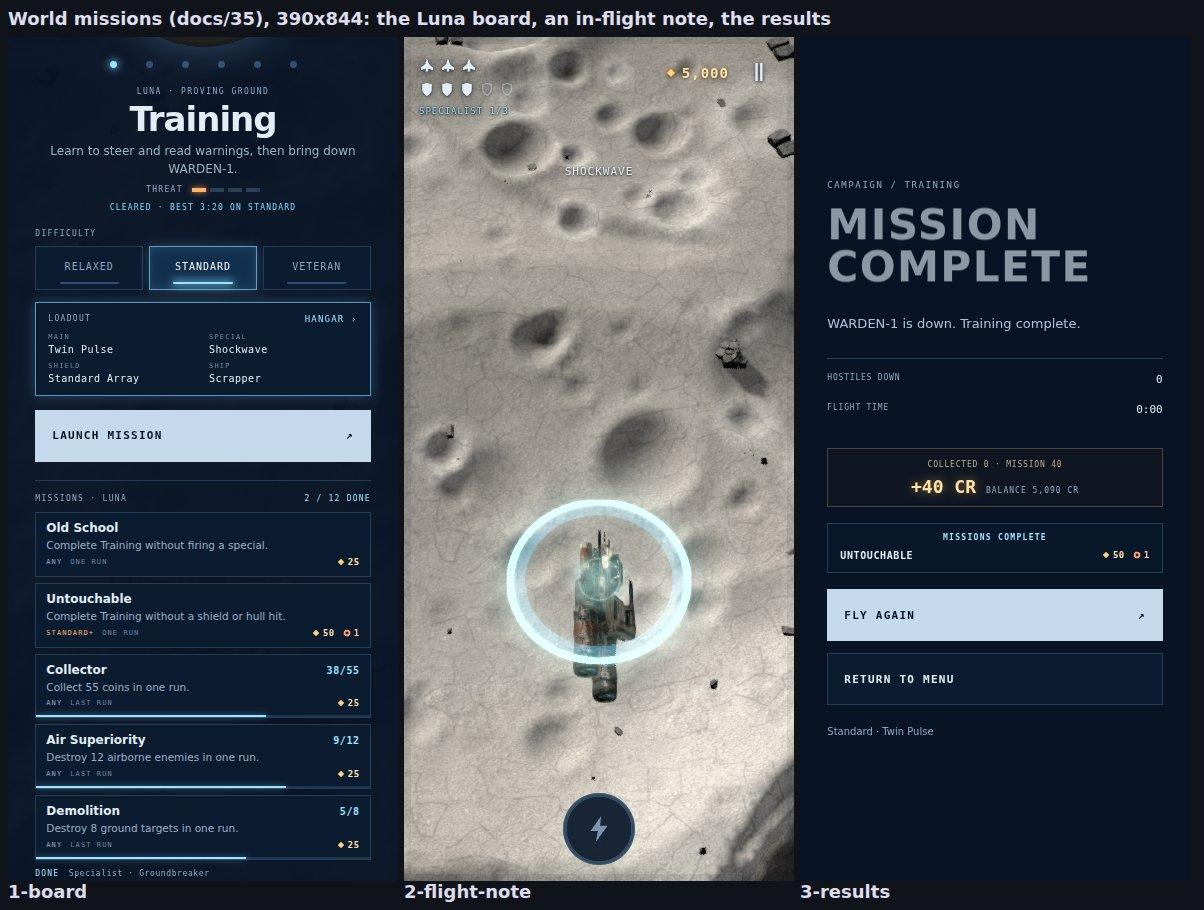
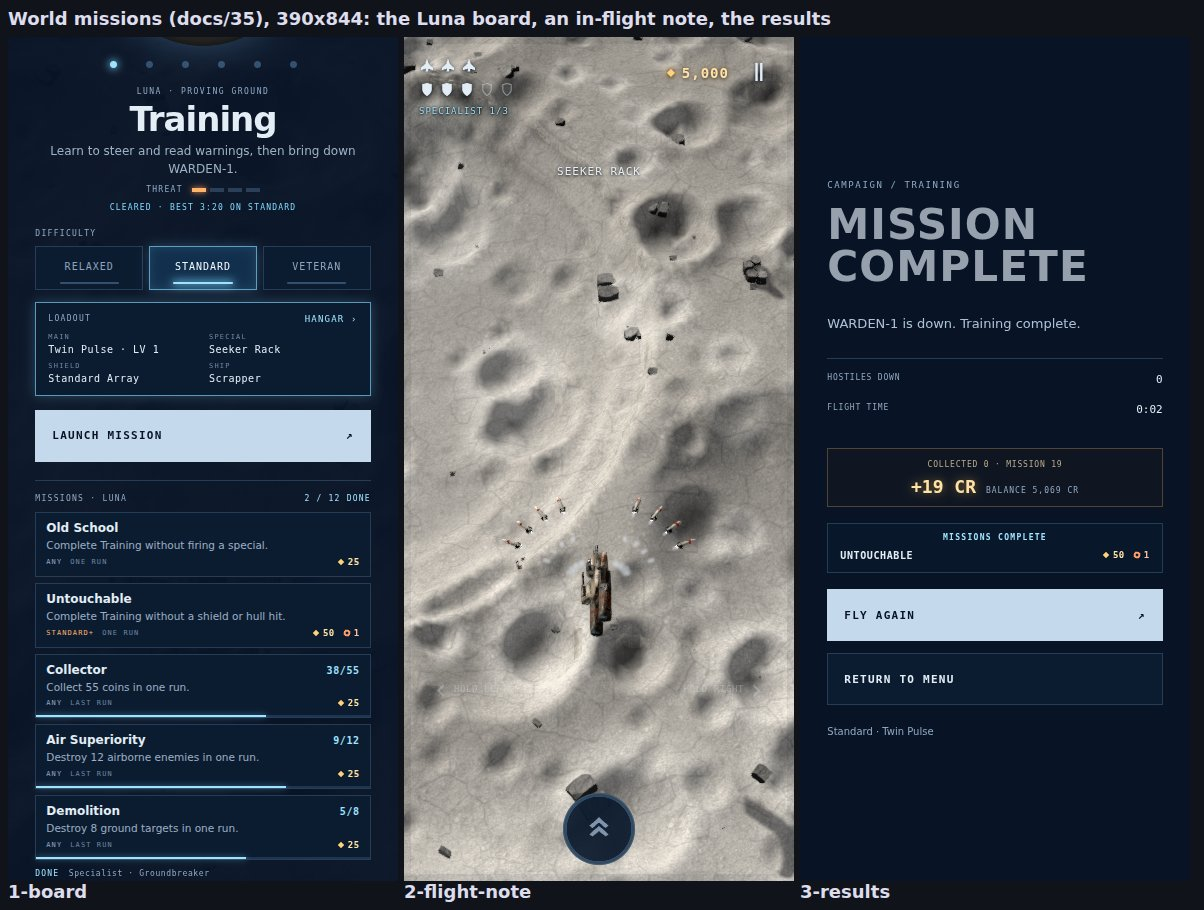
docs/35: the economy merge (per-world coin scale, level selection, save v4), re-measured; missions sheet on the merged build

diff --git a/docs/35-missions.md b/docs/35-missions.md
@@ -43,11 +43,11 @@ All times are the run's active simulation time (`RunState.time`), which never ru
 | Hit | A registered hit on the ship (never one absorbed by invulnerability). A **shield hit** when a shield charge took it, else a **hull hit** (a life lost). "Without taking damage / a hit": no shield and no hull hit. "Without hull damage": shield hits allowed. |
 | The fight | From the boss's arrival (its name shows; the `arrival` phase) to its destruction. Timed boss missions measure this span: Warden Shutdown ≤ 100 s, Bastion Breaker ≤ 120 s, Cradle's End ≤ 150 s. |
 | Final phase / stage | The boss's last phase: its overload (every boss has one), from its start to the boss's destruction. A boss destroyed straight from its core phase (one blow taking it past its overload threshold to zero) had an empty final phase, which counts as clean. |
-| Loadout | Read from the run's config (`weapon`, `rank`: what the run flies; rank 0 is tier 1) and checked against the live weapon and tier at every frame of the run. Campaign runs cannot change weapon; the check holds the definition if that ever changes. |
+| Loadout | Read from the run's config (`weapon`, and `rank`: the level the run flies, chosen in the hangar; rank 0 is level 1) and checked against the live weapon and level at every frame of the run. Campaign runs cannot change weapon; the check holds the definition if that ever changes. First Flight: `weapon === 'pulse'` and `rank === 0` for the whole run. |
 | Flanks | The map is 24 wide and the screen 12: the flanks are world \|x\| > 6 on each side, where an enemy lies at its death. |
 | Wraith zap sequence | One Wraith attack: its feint, teleport and three-round volley (content/wraith.ts). It is survived when no hit registers within 1.5 s of the volley's release (its rounds leave at 16 units/s or faster from rows 10.5–16.5 and cross the ship's row within about 1.1 s). Hunter Wraiths' volleys count. |
 | Ground streak | Dustfall and Frozen Nerves: kills of those batteries since the last hull hit (a shield hit keeps the streak). |
-| Coins (Collector) | Coin pickups collected in flight, counted as the HUD's coin counter counts them: their value × 0.5 × the difficulty's multiplier (×0.85 / ×1 / ×1.2). Mission rewards, the boss reward, a full shield cell's 5 credits and the starting balance never count. |
+| Coins (Collector) | Coin pickups collected in flight, counted as the HUD's coin counter counts them: their value × the world's `CREDIT_SCALE` (Luna 0.24, Khepri 0.28, Vesper 0.30, Nacre 0.48, Amnion 0.60, Umbra 0.55; src/content/equipment.ts) × the difficulty's multiplier (×0.85 / ×1 / ×1.2), rounded down. Mission rewards, the boss reward, a full shield cell's 5 credits and the starting balance never count. |
 
 ## 3. The missions
 
@@ -113,6 +113,8 @@ All six: **2,895 coins and 21 parts**, as handed over (tested). Mars and Cloud W
   its events: nothing scans enemies or missions per frame. Endless runs never get the list or a tracker.
 - **Notes**: a visible mission's progress shows in flight at every fifth of its goal (every step for goals of five or less);
   completions always show.
+- **Specials**: the starter special is the Seeker Rack (Homing Missiles) since 3 November; its kills are special kills, never
+  the Seeker Array's.
 
 ## 5. Feasibility (measured)
 
@@ -131,7 +133,9 @@ attempts that complete each mission; career missions: mean progress per attempt
 | Amnion | Untouchable 92 % (100), Demolition 33 % (100) | Nest Breaker 0.17 (0.17), Heartbreaker 0.50 (0.58), Brood Extermination 9.3 (11.8) |
 | Umbra | Untouchable 92 % (100), Vanishing Act 92 % (100) | Gravity Slingshot 0.67 (0.67) |
 
-Every other mission completes on every seed at both tiers. The perfect pilot takes almost no hits, so Untouchable and the
+Every other mission completes on every seed at both tiers. Measured again after the 3 November economy merge (per-world coin
+scale, Seeker Rack starter): the same shares. Collector's margin is thinnest on Luna: those attempts collect 249–341 in pickups,
+59–82 coins at ×0.24 against 55; an attempt that fires no special and skips coins can fall short (35–75 coins measured). The perfect pilot takes almost no hits, so Untouchable and the
 hull-damage objectives are far harder for a person than these numbers suggest; that is their purpose (Standard+, a part).
 End to end, `tests/sim/missions-feasibility-*.test.ts` clears all twelve on every world through the real tracker and a saved
 profile, and checks the payout totals.
@@ -154,16 +158,16 @@ profile, and checks the payout totals.
    the 3 November +20 % boss health. THE CRADLE's 123–141 s against 150 is a real target at tier 1. Proposal if wanted:
    60 s and 80 s.
 6. **Three Paths depends on the draw**: an attempt draws 3 or more sites 35 % of the time; then it is a fair challenge.
-7. **First Flight needs a tier-1 Pulse**: until the hangar lets a pilot fly a lower tier than owned (the economy work), a pilot
-   who upgraded the Pulse cannot do it.
-8. **Collector counts HUD coins** (scaled like the coin counter), not the pickups' raw value; with raw values every Collector
-   completes by just finishing the mission (raw medians are 2–4 times the targets).
+7. **First Flight needs a level-1 Pulse**: the hangar's level selector (the economy work, 3 November) lets any pilot fly it.
+8. **Collector counts HUD coins** (scaled like the coin counter, per world), not the pickups' raw value; with raw values every
+   Collector completes by just finishing the mission (raw medians are 2–4 times the targets).
 9. **Requires owned gear**: Armor Piercer (Rail Driver), Cold Vector (Fan Cannon), Seeker Sweep (Seeker Array), Gravity
    Slingshot (the Spectre, which needs Final Horizon cleared). A hidden one simply waits.
 
 ## 6. Saving and rewards
 
-- **Where**: the board is the profile's opaque `missionBoard` field (economy contract, src/campaign/profile.ts), one object
+- **Where**: the board is the profile's opaque `missionBoard` field (src/campaign/profile.ts; carried unchanged through every
+  load and migration, save version 4), one object
   per world: revealed ids in reveal order, claimed ids (the history), achieved-while-hidden ids, career progress, the running
   attempt's career share (`live`) and the last attempt's single-run progress (`last`). Schema `version: 1`.
 - **When**: a completion is saved and paid the moment it happens (a mid-flight reload never loses it); career progress is saved
@@ -171,7 +175,8 @@ profile, and checks the payout totals.
   the career total once and records its last progress. An interrupted attempt's saved share is folded in when the next attempt
   starts (docs/09 § 3: observed progress counts, once).
 - **Paying**: every claim calls `awardOnce(profile, 'mission:<id>', credits, parts)` in the same profile transaction
-  (`missionTransaction`) that saves the board. The receipt list (`awards`) and the board's claimed list each stop a second
+  (`missionTransaction`) that saves the board. The receipt list (`awards`, unbounded and apart from the attempt receipts) and
+  the board's claimed list each stop a second
   payment; reopening results, a second finish, a reload or another attempt never pays twice (tested).
 - **Unreadable**: a board that cannot be read (broken, or from a newer build) is kept exactly as it is and never overwritten;
   missions are paused for the session and the board says so.
